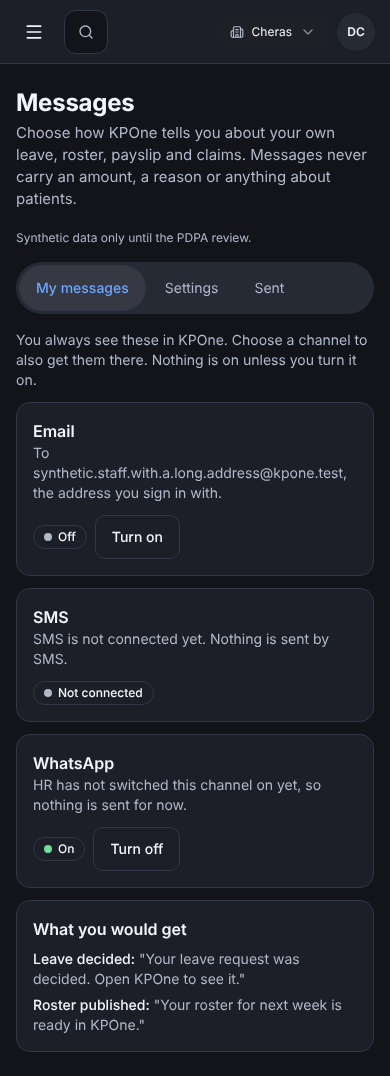
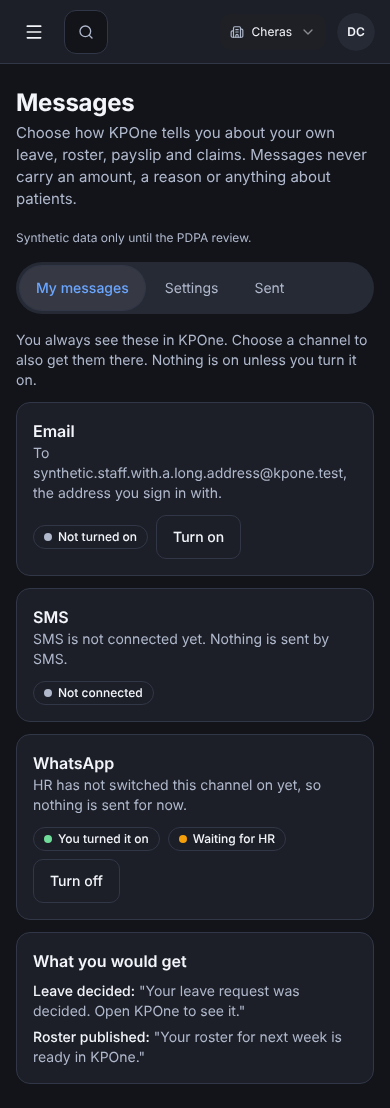
Evidence: V2 HR Messages shots after review

diff --git a/docs/validation/v2-hr-messages/README.md b/docs/validation/v2-hr-messages/README.md
@@ -3,3 +3,5 @@
 Synthetic data only, `.test` addresses, stubbed props; nothing is sent. Shots at 1440 and 390 px, light and dark: `my` (Email off, SMS not connected, WhatsApp on), `myStaffOnly` (a staff-only account: one tab, Email on), `settings`, `settingsDirty` (a price edited, Save enabled), `sent` (page 2 of 4, a long address, every status) and `sentEmpty` (a status with no messages). No horizontal scroll and no external request.
 
 Classic compare: Classic Messages built from main and from the branch, same props, 24 states (the same six at 390 and 1440, light and dark), 0 differing pixels.
+
+After Suresh and Daniel: Save is filled while a card has unsaved changes, with "Changes not saved yet." beside it; the leave guard covers the Settings tab (leaving the page or switching tab asks "Discard your changes?"); on My messages the chip says "You turned it on" and a second chip says "Waiting for HR" while HR has not switched the channel on. V2 shots retaken; Classic is unchanged by these edits (compare in PR #880).
